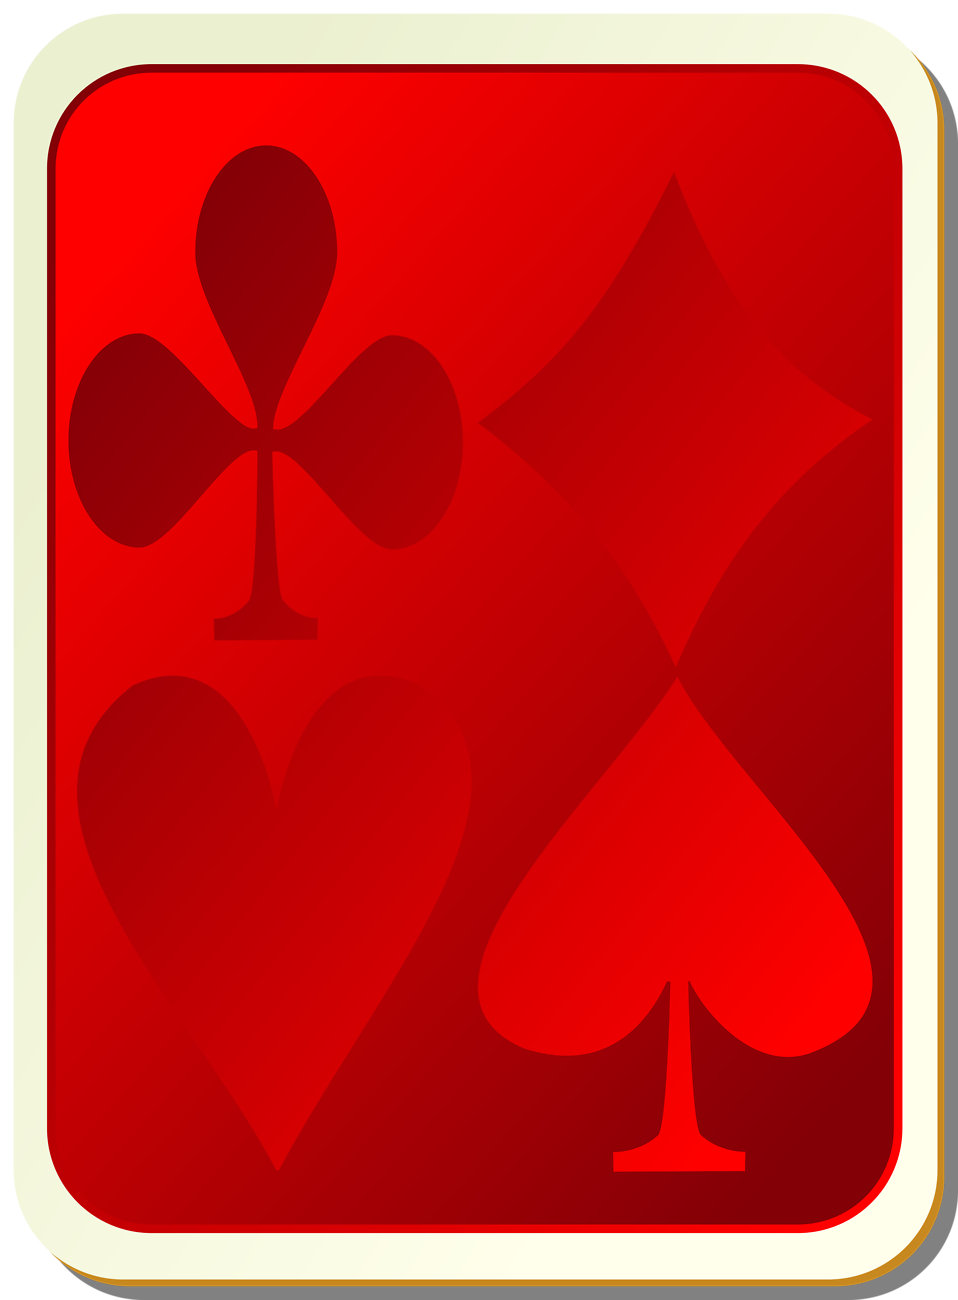
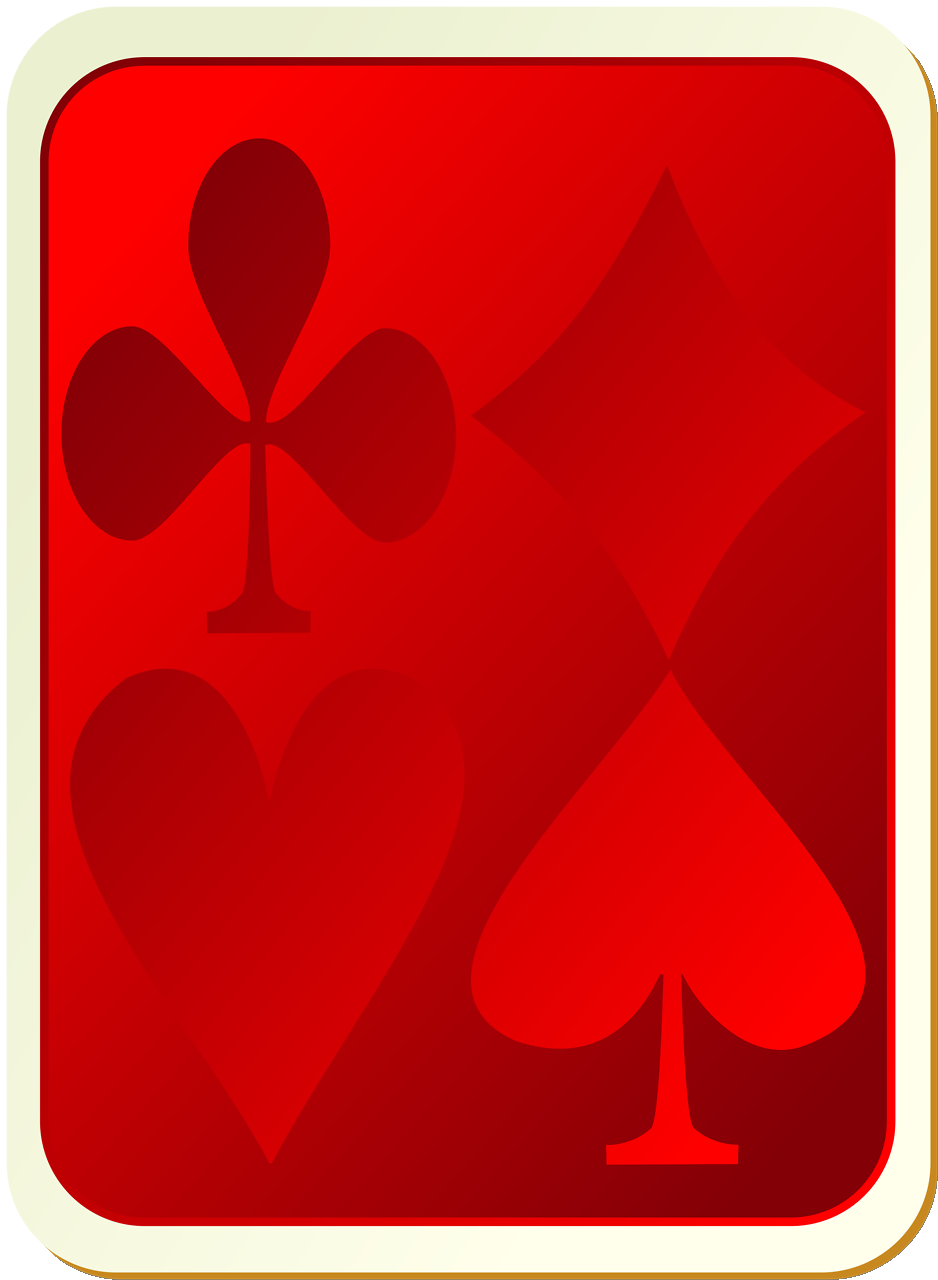
downsized images

diff --git a/public/javascripts/Card.js b/public/javascripts/Card.js
@@ -9,7 +9,7 @@ Card.width = 60;
 Card.height = 88;
 
 Card.prototype.getHtml = function(){
-  return '<img class="card" card = "' + this.getFullName() + '" src="images/cards/' + (this.flipped ? (this.getFullName()) : 'card_back') +'.png" width="'+ Card.width + '" height ="' + Card.height + '"/>'
+  return '<img class="card" card = "' + this.getFullName() + '" src="images/cards/small/' + (this.flipped ? (this.getFullName()) : 'card_back') +'.jpg" width="'+ Card.width + '" height ="' + Card.height + '"/>'
 } 
 
 Card.prototype.getRawNumber = function() {

diff --git a/public/images/cards/small/BulkResizePhotos.com.html b/public/images/cards/small/BulkResizePhotos.com.html
@@ -1,0 +1,1 @@
+<html><head><meta http-equiv="refresh" content="0;url=http://bulkresizephotos.com/"></head><body><script>window.location.href="http://bulkresizephotos.com";</script></body></html>
